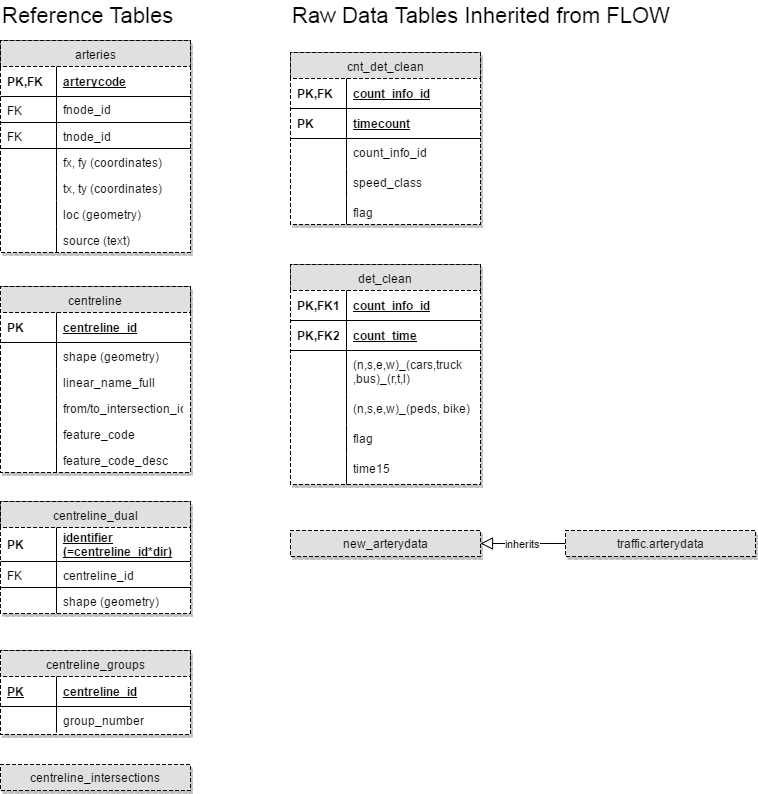
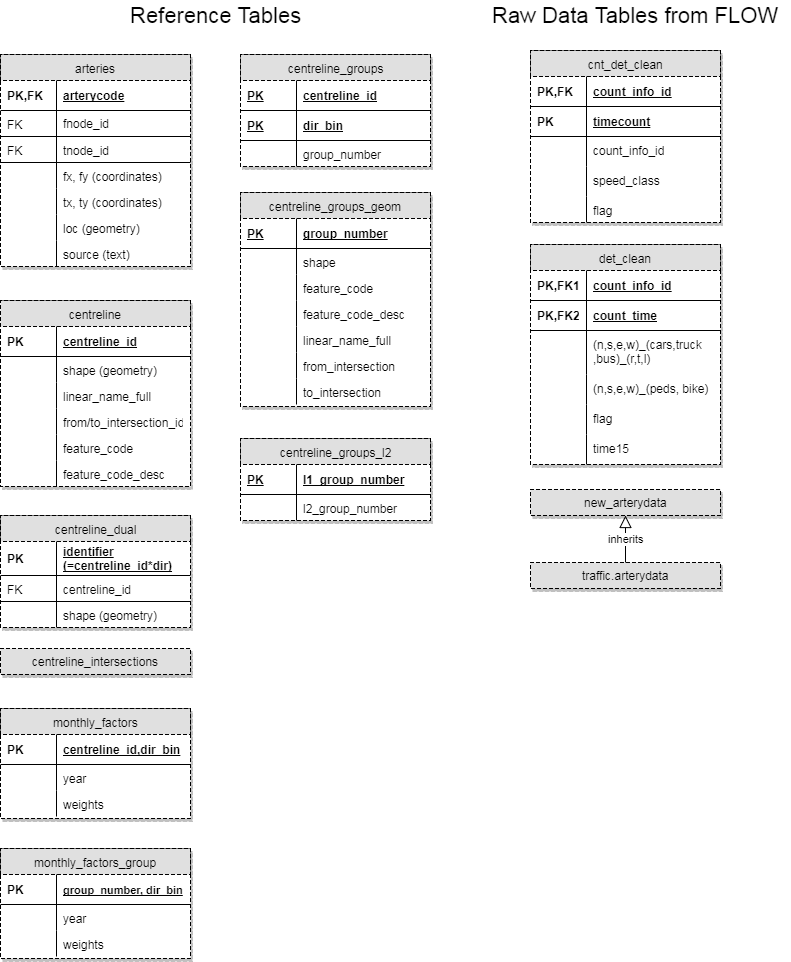
Update Documentation

Changed region(s): [[0.0, 0.0, 1.0, 1.0], [0.3641, 0.665, 1.0, 0.7254]]

diff --git a/README.md b/README.md
@@ -29,7 +29,7 @@ The City of Toronto's traffic volume collection efforts can be broken into three
 The purpose of this project is to leverage existing count data to develop a model that can produce volume estimates at specific locations in the City of Toronto at specific times, and is sensitive to time-of-day, day-of-week and seasonality effects, as well as long-term trends. These estimates will facilitate the development of volume-weighted congestion performance metrics, as well as allow the Team to produce detailed volume profiles that can feed into congestion reporting tools and AADT summaries.
 
 ## 3. Project Tasks
-1. **Map Source Geometries to Toronto Centreline:** Link Artery Codes used in the City's FLOW database to the City's Centreline shapefile, with additional descriptive fields (e.g. directionality) as necessary. Detailed process can be found at [centreline_mapping.md](centreline_mapping.md).
+1. **Map Source Geometries to Toronto Centreline:** Link Artery Codes used in the City's FLOW database to the City's Centreline shapefile, with additional descriptive fields (e.g. directionality) as necessary. Detailed process can be found at [arterycode_mapping](volume_project/arterycode_mapping).
 
 2. **Definition of Corridors:** Develop reproducible process for aggregating relevant centreline segments into corridors [corridors](corridors/).
 
@@ -37,17 +37,18 @@ The purpose of this project is to leverage existing count data to develop a mode
 
 4. **Exploratory Analysis:** Explore and summarize the availability and quality of volume data. Results are in jupyter notebook form in [exploratory_analysis](exploratory_analysis/).
 
-5. **Data Cleaning:** Detect and cleanup anomalies in the counts. [count_anomalies](count_anomalies/)
+5. **Data Cleaning:** Detect and cleanup anomalies in the counts. [count_anomalies](volume_project/data_cleanup/)
 
 6. **Model Development:**  
-	1. Spatial Interpolation: Group centrelines that share the same volume (intercepted by non-roads or road class local and below) together. [spatial_interpolation](spatial_interpolation/)  
-	2. Clustering: Cluster Time-of-Day profiles and fill in incomplete counts accordingly. [clustering](clustering/)  
-	3. Factoring and Reporting: A function that accepts information about counts required (average daily volume, hourly profile, etc) and returns a volume, calling clustering, filling in, spatial interpolation, seasonality factors as necessary. [reporting](reporting/)
+	1. Spatial Interpolation: Group centrelines that share the same volume (intercepted by non-roads or road class local and below) together. [spatial_interpolation](volume_project/preprocessing/spatial_interpolation/)  
+	2. Clustering: Cluster Time-of-Day profiles and fill in incomplete counts accordingly. [clustering](volume_project/clustering/)  
+	3. Temporal Interpolation: A function that accepts information about counts required (average daily volume, hourly profile, etc) and returns a volume, calling clustering, filling in, spatial interpolation, seasonality factors as necessary. [reporting](volume_project/estimation_extraction/)
+	4. Spatial Extrapolation: Estimate volume on segments with no counts based on nearby counts. [spatial_extrapolation](volume_project/spatial_extrapolation)
 
 7. **Model Validation:** 
 
 8. **Tool Deployment: (under development)**
-	1. Static AADT Map: A static map that shows the annual average daily volume for all segments in Toronto.
+	1. [Static AADT Map](static_map/): A static map that shows the annual average daily volume for all segments in Toronto. 
 	2. Interactive Map: An interactive map that can display TOD profiles and average volume trends at different zoom levels. 
 
 ## 4. Related Tasks

diff --git a/prj_volume.md b/prj_volume.md
@@ -10,11 +10,15 @@ There are three categories of tables in the schema:
 |arteries|geometry information for arterycodes|source indicates the source of coordinate information (geocoding, flow, centreline, null)|
 |centreline|Toronto centreline||
 |centreline_dual|dual of the centreline table with the addition of directions|used for mapping 2-way volume|
-|centreline_groups|grouping of centrelines sharing the same volume||
+|centreline_groups|grouping of centrelines sharing the same volume|merging segments on the same street with no intersecting collector and above|
+|centreline_groups_geom|geometry of grouped centrelines and additional information such as road class and street name|a few circular geometries simplified to half circles|
+|centreline_groups_l2|level 2 grouping of the centreline groups|merging segments on the same street with no intersecting minor arterial and above (excl. expressways since they are not at grade crossing)|
 |centreline_intersections|intersections in Toronto||
 |cnt_det_clean|ATR counts in flow|clean version of traffic.cnt_det, with bad records deleted or flagged|
 |det_clean|TMC counts in flow|clean version of traffic.det, with bad records deleted or flagged|
 |new_arterydata|new/modified arterycodes||
+|monthly_factors|seasonal factors (weights) for each month|average factors are identified by centreline_id = dir_bin = 0|
+|monthly_factors_group|seasonal factors w.r.t. centreline_groups|average factors are identified by group_number = dir_bin = 0|
 
 
 2. Intermediate Tables
@@ -27,6 +31,7 @@ There are three categories of tables in the schema:
 |tmc_turns|a table that links vehicle movement with centrelines|movement text corresponds to the columns in det/det_clean|
 |actery_tcl|a table that links arterycodes (both ATR and TMC) to centrelines||
 |clusters|cluster results||
+|cluster_profiles|the representative profiles of each cluster||
 |cluster_atr_volumes|volumes used for clustering|vol_weight is null for incomplete day counts indicated by the field complete_day|
 |clusters_group|cluster results w.r.t. centreline groups||
 
@@ -40,3 +45,5 @@ There are three categories of tables in the schema:
 |centreline_volumes|ultimate volumes table|one entry for one location, datetime, type, and class|
 |atr_daily_summary|daily atr volumes|from 2009-2016, aggregated complete-day data from centreline_volumes|
 |tmc_daily_summary|daily tmc volumes|from 2009-2016, aggregated complete-day data from centreline_volumes|
+|aadt|Annual Average Daily Traffic (weekdays only)|confidence: 1 - counts available; 2-4 - spatially extrapolated (see [link](/volume_project/spatial_extrapolation/README.md))|
+

diff --git a/SCOOT/README.md b/SCOOT/README.md
@@ -11,18 +11,22 @@ This table tags all legs of an intersection to centreline segments.
 This table stores information on SCOOT detectors in the city. The px and scn numbers in the table indicate the intersection that the detector is physically located (which can be different from the intersection that the detector's data is contributing towards). The intersection and approach that the detector is counting towards is indicated by the detector id (det).
 ### **Table scoot.detector_tcl**
 This table contains the mapping of each SCOOT detector to the centreline segment it is located at. Exact mapping process can be found [below](# Mapping Process).
-### **Tables scoot.raw_yyyymm**
-Monthly data exported from the scoot system in 15min bins.
+### **Tables scoot.agg_15_yyyymm**
+Monthly data exported from the scoot system in 15min bins. Parent table is **scoot.scoot.scoot_agg_15_all**
 
 |column|type|notes|
 |------|----|-----|
 |detector|text|in the form of N(scn #)(approach letter)(detector number) Example: N10111A1 where 10111 is intersection that detector is counting towards, A indicates the approach, and 1 means this is detector 1 of this approach.|
 |start_time|timestamp||
 |end_time|timestamp|start_time+15mins if count is present, but not necessarily start_time+15min if counts are missing|
-|flow_mean|int|volume in veh/h|
+|flow_mean|int|volume in **veh/h**|
 |occ_mean|double precision|expressed in %|
 |vehicle_occ_mean|int|ms/veh|
 |lpu_factor_mean|double precision|lpu/veh|  
+### **Tables scoot.cycle_level_yymmdd**
+Cycle level data from the scoot system.  
+### **Table video_counts**
+Video counts done for SCOOT data validation.
 
 ## Mapping Process
 
